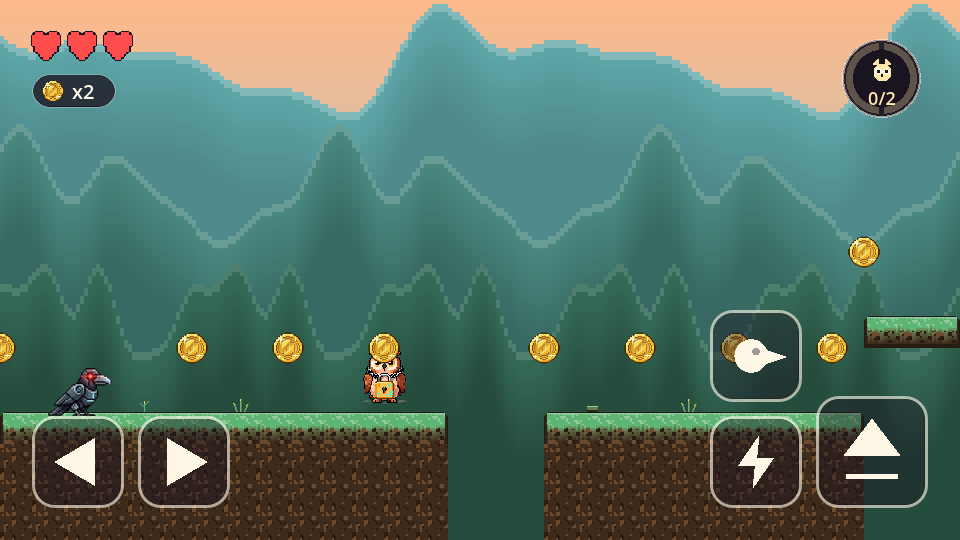
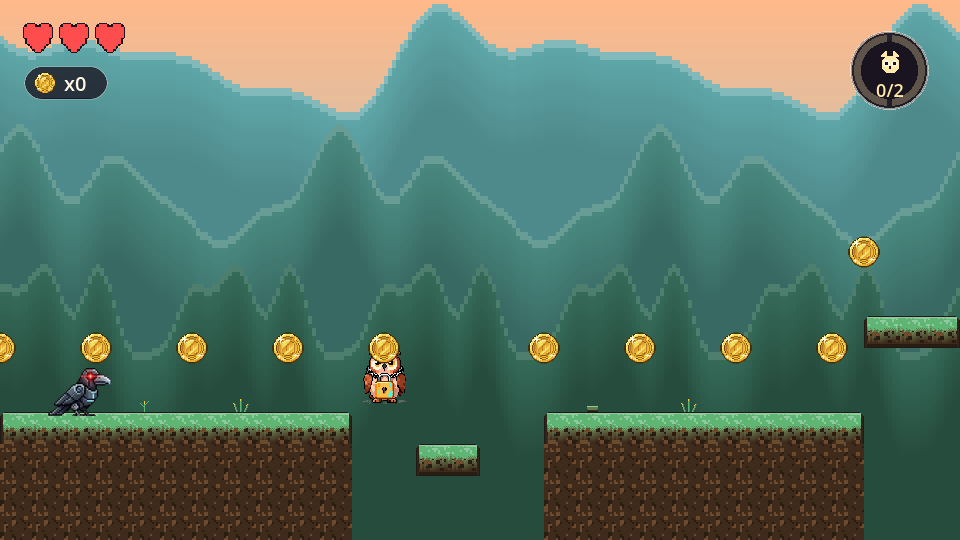
A foothold in each sprint gap, because nobody teaches sprint
Sprint is a default capability and nothing in the game mentions it, by
decision. That left one question the reachability guard was not asking: what
happens to a child who never presses Space?

Asked it, by re-running the guard with the sprint budget taken away. Level 6
stopped that child at column 17 and level 8 at column 15 -- both a few tiles
past the spawn -- with the exit door and 37 and 44 coins on the far side of a
6-tile gap that walk reach (5.9 tiles, designed to 4) cannot cross. Not hard.
Unfinishable, by a key nothing tells them about. The first pass was clean
throughout, because it was measuring a crow that sprints.

Each of those two gaps now has one foothold, ONE ROW BELOW THE GROUND LINE.
Platforms in this game are solid from every side, so a foothold above the
ground line would stand in the way of the running leap it exists to make
optional; a step down is out of the arc entirely. The sprint route is
unchanged -- one clean line over all six tiles -- and the walk route is down
one, across, up one. A missed sprint now lands on a ledge instead of the
spikes at row 19, which is the right way for a five-year-old's first attempt
at a new skill to fail.

The guard gates it from now on: a second pass over every level with
WALK_ONLY set, so a sprint gap is allowed to be the fast way across and never
the only way. Verified in both directions -- with the two footholds stripped
out of a copy of the compiled maps it reports exactly the two walls above. If
[…]

diff --git a/godot/tools/check_level_reachability.py b/godot/tools/check_level_reachability.py
@@ -29,6 +29,10 @@ FLAGS = json.loads((ROOT / "data" / "tuning" / "feature_flags.json").read_text()
 # finishable at a walk -- see feature_flags.json levels.sprint_gaps_from.
 SPRINT_FROM = int(FLAGS.get("levels", {}).get("sprint_gaps_from", 99))
 
+# Set for the second pass in main(), which asks a different question: what can a
+# child who never presses Space do? See main().
+WALK_ONLY = False
+
 
 def envelope(tile, speed):
     """How far the crow can move in one jump at `speed`, in tiles."""
@@ -57,7 +61,7 @@ def speed_for(name):
     """
     digits = "".join(ch for ch in name.split("_")[1] if ch.isdigit())
     number = int(digits) if digits else 0
-    if number >= SPRINT_FROM and number != 99:
+    if not WALK_ONLY and number >= SPRINT_FROM and number != 99:
         return float(TUNING.get("sprintMaxSpeed", TUNING["maxSpeed"])), "sprint"
     return float(TUNING["maxSpeed"]), "walk"
 
@@ -115,7 +119,7 @@ def object_cell(level, kind, tile):
     return None
 
 
-def check(path):
+def check(path, quiet=False):
     level = json.loads(path.read_text())
     tile = level["tilewidth"]
     w, h = level["width"], level["height"]
@@ -173,8 +177,9 @@ def check(path):
         gap = min((abs(c - finish[0]) for c, r in seen), default=-1)
         return [f"{path.name}: the door at column {finish[0]} is unreachable "
                 f"(closest the crow gets is {gap} columns away)"]
-    print(f"  {path.name:26} [{band:6}] spawn {start} -> door {finish}  "
-          f"({len(seen)}/{len(cells)} standable cells reachable)")
+    if not quiet:
+        print(f"  {path.name:26} [{band:6}] spawn {start} -> door {finish}  "
+              f"({len(seen)}/{len(cells)} standable cells reachable)")
     return []
 
 
@@ -187,12 +192,39 @@ def main():
     problems = []
     for name in keys:
         problems += check(LEVELS / name)
+
+    # SECOND PASS: every level, at a walk, with the sprint budget taken away.
+    #
+    # The pass above allows levels from sprint_gaps_from up to need the run key.
+    # This one asks the question that decision does not answer: sprint is a
+    # default capability and nothing in the game teaches it, so what happens to a
+    # child who never presses Space? When it was first run, level 6 stopped that
+    # child at column 17 and level 8 at column 15 -- both a few tiles past the
+    # spawn, with the door and dozens of coins on the far side. The first pass was
+    # clean throughout, because it was measuring a crow that sprints.
+    #
+    # So a sprint gap is allowed to be the FAST way across and never the only way.
+    # Both passes gate. If sprint is ever taught, this pass is the thing to relax,
+    # deliberately, in one place.
+    global WALK_ONLY
+    WALK_ONLY = True
+    walk_problems = []
+    for name in keys:
+        walk_problems += check(LEVELS / name, quiet=True)
+    WALK_ONLY = False
+
     if problems:
         print("UNFINISHABLE:")
         for p in problems:
             print("  " + p)
+    if walk_problems:
+        print("UNFINISHABLE AT A WALK (sprint is never taught, so this is a wall):")
+        for p in walk_problems:
+            print("  " + p)
+    if problems or walk_problems:
         sys.exit(1)
-    print("level reachability: clean")
+    print(f"level reachability: clean, and clean again at a walk with no sprint "
+          f"({len(keys)} levels)")
 
 
 if __name__ == "__main__":

diff --git a/tools/author_gap_vocabulary.py b/tools/author_gap_vocabulary.py
@@ -86,10 +86,29 @@ EDITS = {
         # skill is met before level 6 demands it.
         "add": [{"type": "platform", "x": 74, "width": 1, "y": 12}],
     },
-    # ── The sprint band. One wide gap each, in the open, with nothing bridging
-    # it: the first thing in the game that cannot be walked across.
+    # ── The sprint band. One wide gap each, in the open, and each with ONE
+    # foothold in it.
+    #
+    # The footholds are a correction, and the measurement that forced them is
+    # worth keeping. Sprint is a default capability that is never taught, by
+    # decision -- so the guard was re-run with the sprint envelope removed
+    # entirely, asking what a child who never presses Space can do. Level 6
+    # stopped that child at column 17 and level 8 at column 15, both a few tiles
+    # from the spawn, with the door and 37 and 44 coins on the far side. Not hard:
+    # unfinishable, by a key nothing mentions.
+    #
+    # A foothold ONE ROW BELOW THE GROUND LINE fixes it without softening the
+    # gap. Platforms in this game are solid from every side, so anything placed
+    # above the ground line would stand in the way of the running leap itself;
+    # a step down is out of the arc entirely. The walk route becomes down one,
+    # across, up one -- slow, and available. The sprint route is unchanged: one
+    # clean line over the whole six tiles, and now a missed sprint lands on a
+    # ledge instead of the spikes at row 19, which for a five-year-old is the
+    # right way for a first attempt at a new skill to fail.
     "level_06_emberwood_deep": {
         "gap": [(0, 6)],
+        # Gap is columns 11-16; ground surface is row 16 and the spikes are at 19.
+        "add": [{"type": "platform", "x": 13, "width": 2, "y": 17}],
     },
     # Level 7 deliberately gets NOTHING.
     #
@@ -105,6 +124,9 @@ EDITS = {
     "level_07_crystal_depths": {},
     "level_08_meadow_heights": {
         "gap": [(0, 6), (3, 7)],
+        # Gap is columns 9-14. The 7 after run 3 is already bridged, so it needs
+        # nothing: it is crossed over the bridge, not across the hole.
+        "add": [{"type": "platform", "x": 11, "width": 2, "y": 17}],
     },
 }
 
@@ -228,6 +250,14 @@ def rewrite(stem, edits):
         if err:
             problems.append(f"{stem}: {err}")
     for extra in edits.get("add", []):
+        # Idempotent, because this tool is run again every time the vocabulary
+        # changes and a bare append is not. Running it twice duplicated level 4's
+        # 2-wide ledge and level 5's 1-wide pad -- two platforms occupying exactly
+        # the same tiles, invisible in the game and invisible in the compiled map,
+        # and a landmine for anyone later reading the spec as the authored truth.
+        key = (extra["type"], extra["x"], extra["width"], extra["y"])
+        if any((q["type"], q["x"], q["width"], q["y"]) == key for q in platforms):
+            continue
         platforms.append(dict(extra))
 
     platforms.sort(key=lambda p: (p["x"], p["y"]))
